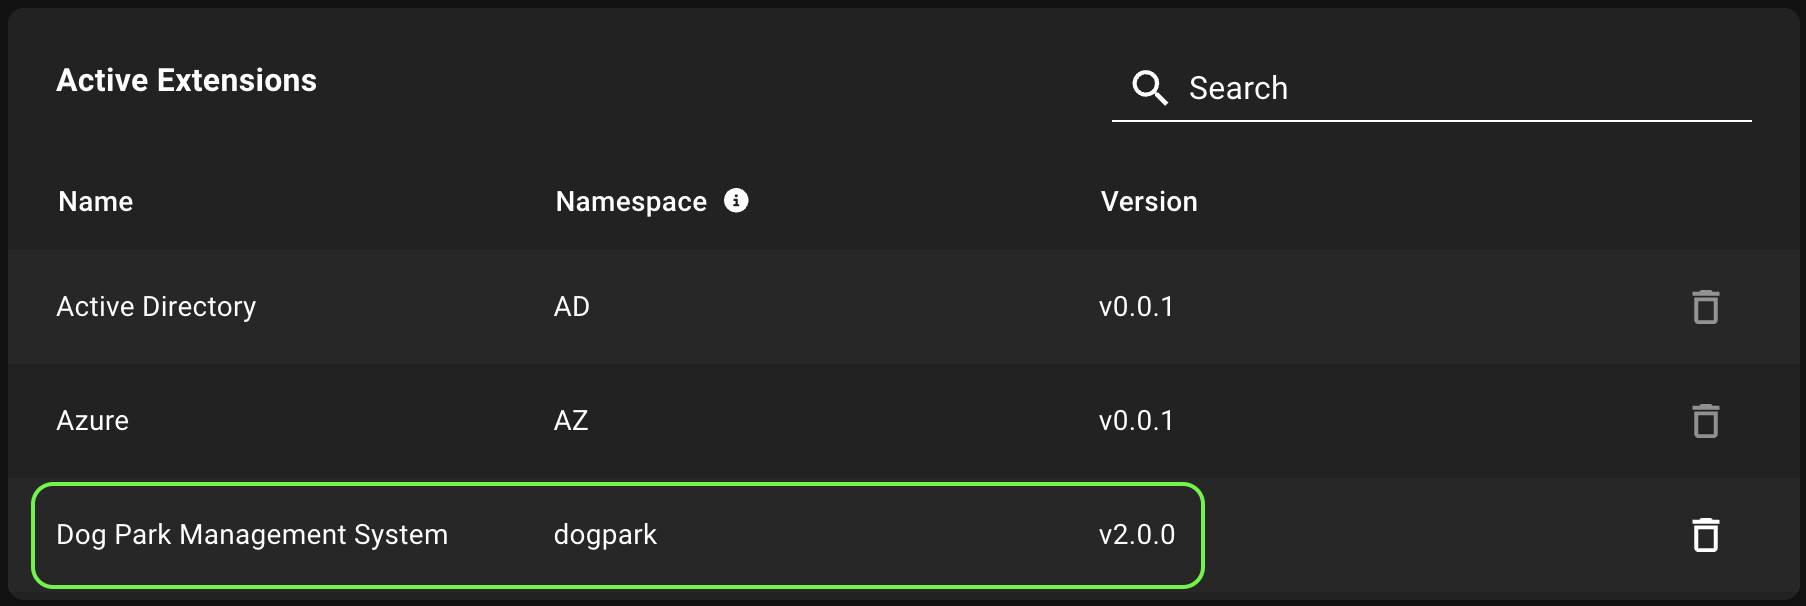
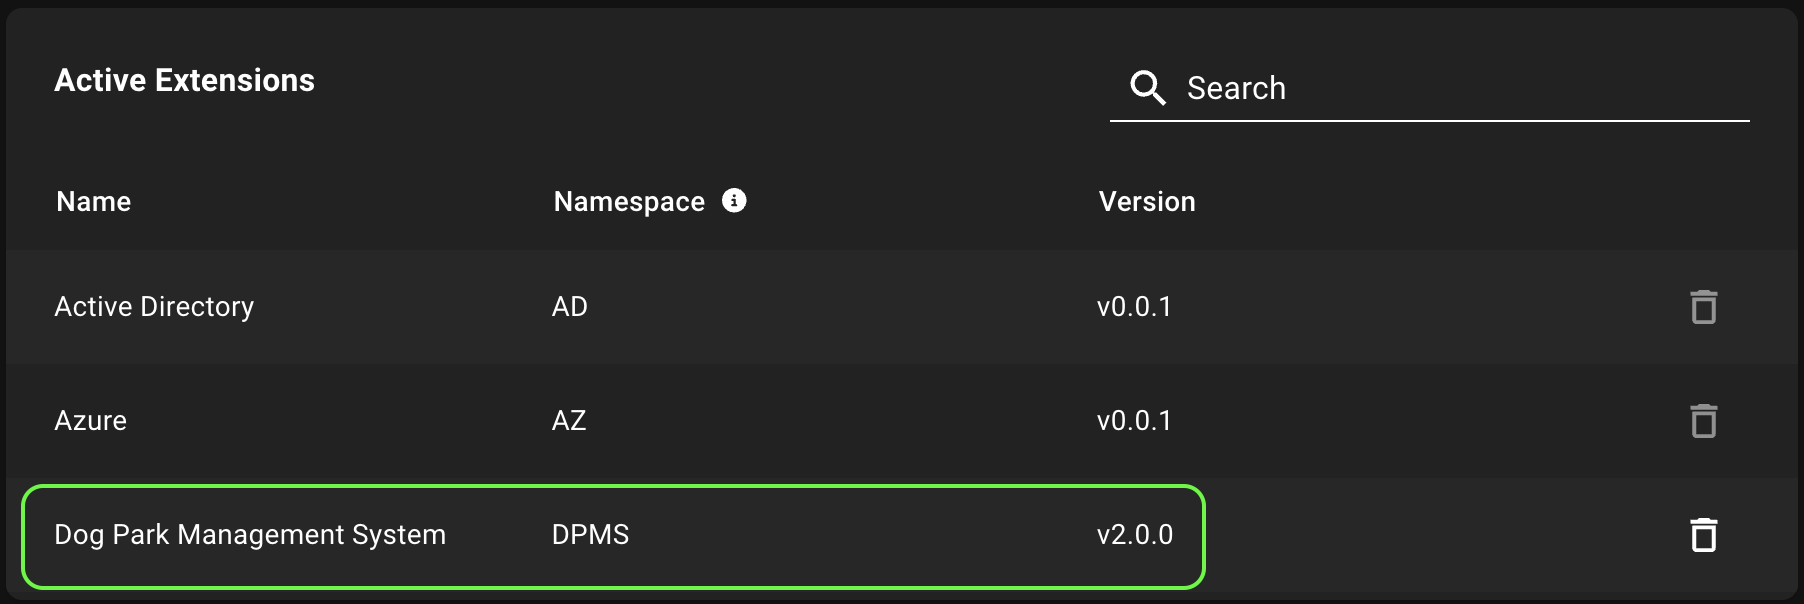
docs: apply suggestions from PM review

diff --git a/docs/snippets/opengraph/extensions/install.jsx b/docs/snippets/opengraph/extensions/install.jsx
@@ -20,7 +20,7 @@ export const InstallExtension = ({
           <strong>BloodHound Enterprise</strong>:{' '}
           {enterpriseEmbedded ? (
             <>
-              In BloodHound Enterprise {enterpriseEmbeddedVersion} and later, {source} is supported as a built-in extension. Use the <a href="/opengraph/extensions/manage">OpenGraph Management</a> page to verify the installed version or update to a newer version manually outside the standard BloodHound Enterprise release cycle.
+              In BloodHound Enterprise {enterpriseEmbeddedVersion} and later, {source} is supported as a pre-installed extension. Use the <a href="/opengraph/extensions/manage">OpenGraph Management</a> page to verify the installed version or update to a newer version manually outside the standard BloodHound Enterprise release cycle.
             </>
           ) : (
             <>